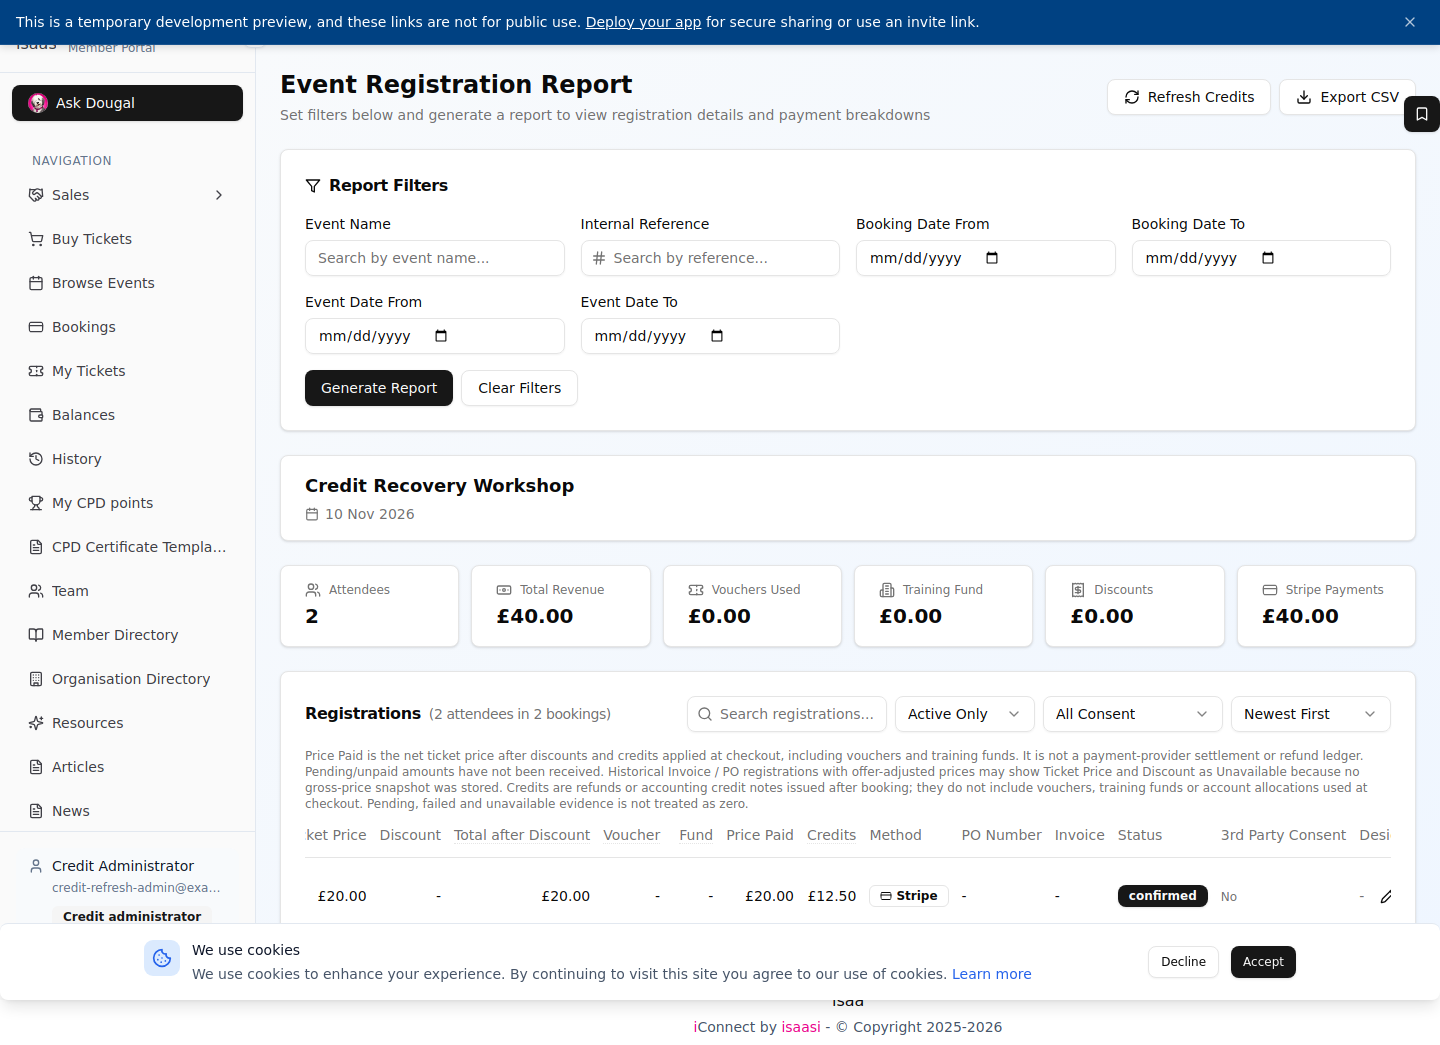
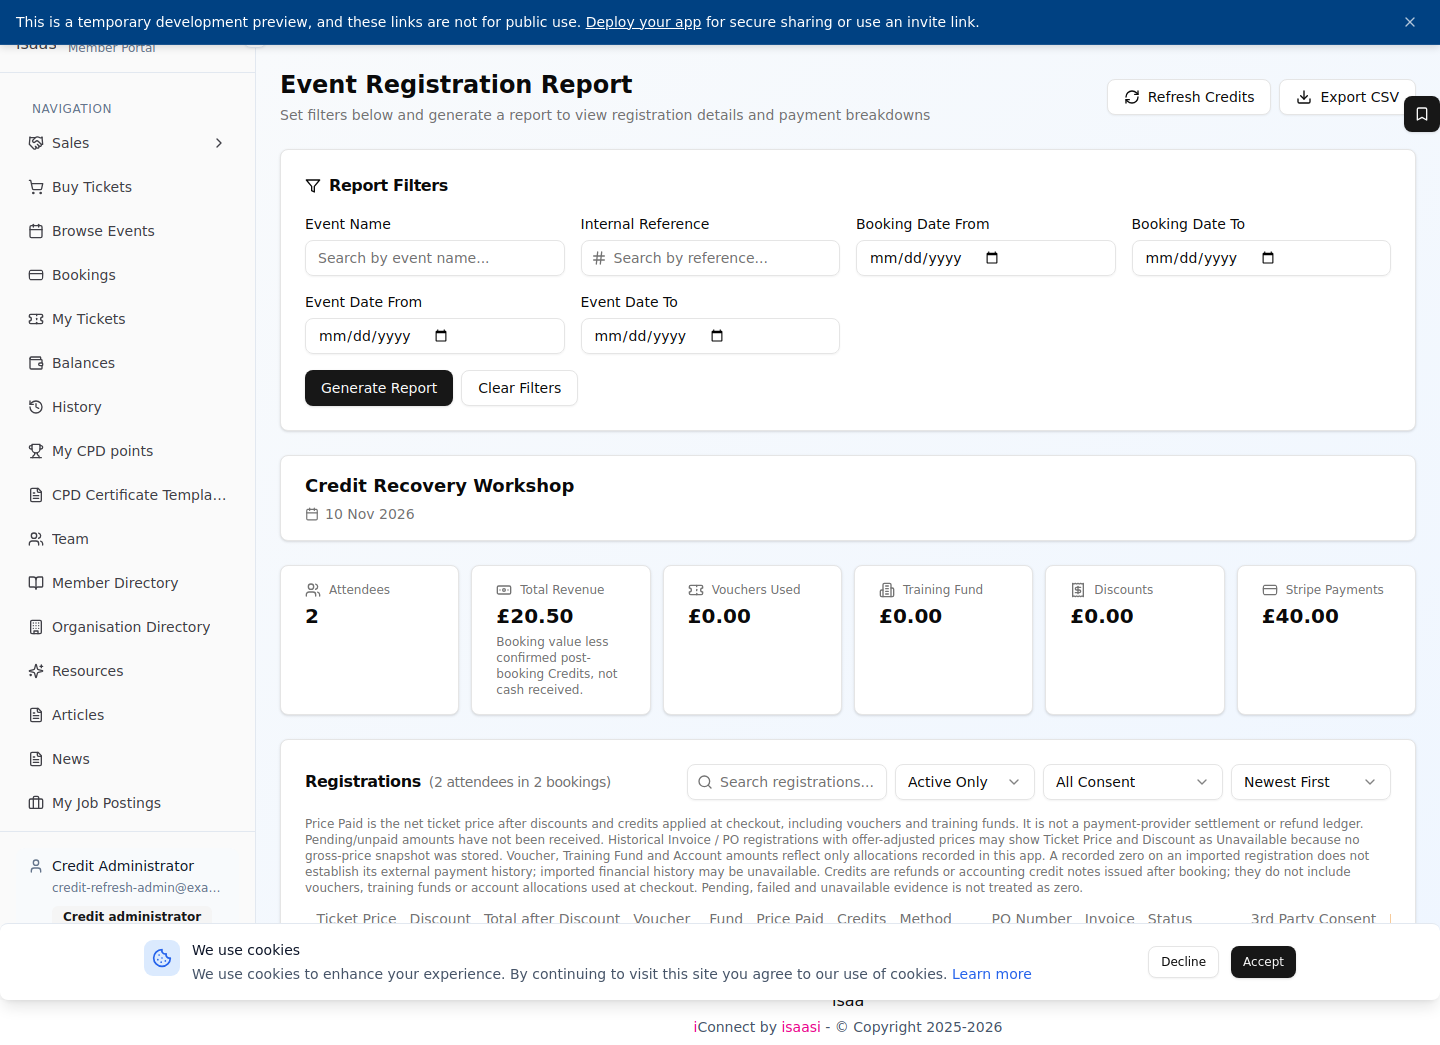
Deduct confirmed group Credits from report revenue and preserve report API regression coverage
Replit-Task-Id: 980bf761-0a46-47a9-93bc-b8fa5bb2f893
Replit-Merge-Attempt: MergeTask:980bf761-0a46-47a9-93bc-b8fa5bb2f893:1:adb9da1e

diff --git a/client/src/pages/EventRegistrationReport.jsx b/client/src/pages/EventRegistrationReport.jsx
@@ -37,6 +37,7 @@ import CpdPointsReplayDialog from "@/components/events/CpdPointsReplayDialog";
 import { CPD_REPLAY_ENDPOINT, cpdRegistrationIdentity, cpdRegistrationKey, readCpdReplayResponse } from "@/lib/cpdPointsReplay";
 import { formatRegistrationPricePaid } from "@/lib/eventRegistrationPricePaid";
 import { financialAmount, financialCurrency, financialExport, paymentMethodLabel } from "@/lib/eventRegistrationFinancial";
+import { summarizeRegistrationRevenue, registrationRevenueExplanation } from "../../../shared/eventRegistrationRevenue.mjs";
 import {
   formatRegistrationCreditBreakdown,
   formatRegistrationCreditExplanation,
@@ -1276,7 +1277,6 @@ export default function EventRegistrationReport() {
   };
 
   const filteredSummary = useMemo(() => {
-    let totalRevenue = 0;
     let totalVoucher = 0;
     let totalTrainingFund = 0;
     let totalDiscount = 0;
@@ -1287,7 +1287,6 @@ export default function EventRegistrationReport() {
     const creditsSummary = summarizeRegistrationCredits(filteredGroups);
     let hasUnavailableTicketTotal = false;
     let hasUnavailableDiscount = false;
-    let hasUnavailableRevenue = false;
     let hasUnavailableVoucher = false;
     let hasUnavailableFund = false;
     let hasUnavailableAfterDiscount = false;
@@ -1300,8 +1299,6 @@ export default function EventRegistrationReport() {
       const gp = group.groupPayment;
       const cost = financialAmount(gp.totalCost);
       const codeDiscount = financialAmount(gp.codeDiscount);
-      if (cost === null || codeDiscount === null) hasUnavailableRevenue = true;
-      else totalRevenue += cost - codeDiscount;
       const voucher = financialAmount(gp.voucherAmount);
       const fund = financialAmount(gp.trainingFundAmount);
       const discount = financialAmount(gp.discount);
@@ -1341,7 +1338,7 @@ export default function EventRegistrationReport() {
     return {
       totalBookings: totalAttendees,
       totalGroups: filteredGroups.length,
-      totalRevenue,
+      ...summarizeRegistrationRevenue(filteredGroups),
       totalVoucher,
       totalTrainingFund,
       totalDiscount,
@@ -1352,7 +1349,6 @@ export default function EventRegistrationReport() {
       creditsSummary,
       hasUnavailableTicketTotal,
       hasUnavailableDiscount,
-      hasUnavailableRevenue,
       hasUnavailableVoucher,
       hasUnavailableFund,
       hasUnavailableAfterDiscount,
@@ -2015,6 +2011,12 @@ export default function EventRegistrationReport() {
                   <span className="text-xs text-muted-foreground">Total Revenue</span>
                 </div>
                 <p className="text-xl font-bold" data-testid="text-total-revenue">{filteredSummary.hasUnavailableRevenue ? 'Unavailable' : formatCurrency(filteredSummary.totalRevenue)}</p>
+                <p className="text-xs text-muted-foreground mt-1">Booking value less confirmed post-booking Credits, not cash received.</p>
+                {filteredSummary.hasUnavailableRevenue && (
+                  <p className="text-xs text-muted-foreground mt-1" data-testid="text-revenue-incomplete">
+                    Incomplete for {filteredSummary.revenueUnavailableGroups} booking group(s): {registrationRevenueExplanation(filteredSummary)}.
+                  </p>
+                )}
               </CardContent>
             </Card>
             {paymentPolicy?.allowVoucherPayment && <Card>

diff --git a/api/reports/event-registration-report.js b/api/reports/event-registration-report.js
@@ -4,6 +4,7 @@ import { isPublicInvoicePo, publicInvoicePurchaser } from './_publicInvoicePo.js
 import { buildEventCheckinFlagMap } from '../_lib/checkinService.js';
 import { normalizeGroupPayment, normalizeGroupPricePaid, normalizeGroupTicketPrices } from './_pricePaid.js';
 import { attachReportCredits } from './_credits.js';
+import { summarizeRegistrationRevenue } from '../../shared/eventRegistrationRevenue.mjs';
 
 // Continue until an empty page, not a short page: a deployment's PostgREST
 // maximum may be smaller than our requested range. A unique tie-breaker keeps
@@ -754,13 +755,11 @@ export default async function handler(req, res) {
         }
       }
 
-      let totalRevenue = 0;
       let totalVoucher = 0;
       let totalTrainingFund = 0;
       let totalDiscount = 0;
       let totalAccountPayments = 0;
       let totalStripePayments = 0;
-      let hasUnavailableRevenue = false;
       let hasUnavailableTicketTotal = false;
       let hasUnavailableDiscount = false;
       let hasUnavailableAfterDiscount = false;
@@ -797,15 +796,14 @@ export default async function handler(req, res) {
           hasUnavailablePricePaid = true;
         }
 
-        // Keep totalCost and the summary-card calculations below on their
-        // historical raw snapshots. The canonical footer values are calculated
-        // independently because complex ticket_price is already code-discounted.
+        // Preserve raw totalCost for existing settlement cards. Revenue uses
+        // canonical booking value after credit attachment below, because
+        // complex ticket_price is already code-discounted.
         const hasUnknownCost = members.some(b => b.total_cost == null || b.total_cost === ''
           || !Number.isFinite(Number(b.total_cost))
           || (b.payment_method === 'admin_import' && Number(b.total_cost) === 0));
         const groupTotalCost = hasUnknownCost ? null
           : members.reduce((sum, b) => sum + (Number(b.total_cost) || 0), 0);
-        if (hasUnknownCost) hasUnavailableRevenue = true;
 
         const groupVoucher = members.reduce((sum, b) => sum + (Number(b.voucher_amount) || 0), 0);
         const groupTrainingFund = members.reduce((sum, b) => sum + (Number(b.training_fund_amount) || 0), 0);
@@ -822,7 +820,6 @@ export default async function handler(req, res) {
         const legacyDiscount = legacyOfferDiscount + legacyCodeDiscount;
         const groupDiscountCode = (members.find(b => b.discount_code_label)?.discount_code_label) || null;
 
-        if (groupTotalCost !== null) totalRevenue += groupTotalCost - legacyCodeDiscount;
         totalVoucher += groupVoucher;
         totalTrainingFund += groupTrainingFund;
         totalDiscount += legacyDiscount;
@@ -1023,13 +1020,12 @@ export default async function handler(req, res) {
       await attachReportCredits({ db: supabase, tenantId, bookings: allBookings, groups: bookingGroups });
 
       summary = {
-        totalRevenue,
+        ...summarizeRegistrationRevenue(bookingGroups),
         totalVoucher,
         totalTrainingFund,
         totalDiscount,
         totalAccountPayments,
         totalStripePayments,
-        hasUnavailableRevenue,
         hasUnavailableTicketTotal,
         hasUnavailableDiscount,
         hasUnavailableAfterDiscount,

diff --git a/.agents/memory/post-booking-credit-authority.md b/.agents/memory/post-booking-credit-authority.md
@@ -8,6 +8,12 @@ Post-booking Credits must use actual provider evidence, never cancellation statu
 
 **How to apply:** Require durable operation linkage before merging legs; leave unresolved attribution/overlap unavailable. Historical reconciliation must only read financial providers and must never replay cancellation to repair reporting evidence.
 
+Event Registration Report revenue means booked value less confirmed post-booking Credits, not cash received. Checkout vouchers, training funds and account allocations are settlement methods, not further revenue deductions.
+
+**Why:** The user explicitly separated revenue from settlement and requested that missing reversal evidence prevent a definitive total.
+
+**How to apply:** Preserve standard versus complex discount semantics, deduct the authoritative group projection once, and keep incompatible currencies or unresolved evidence unavailable. Do not extend this definition to other reports without approval.
+
 Request safety budgets for browser-driven historical reconciliation must pause resumably, not permanently exhaust the saved session.
 
 **Why:** A report can span all events and booking dates, and provider pagination adds requests beyond its booking count. A lifetime request cap can make an otherwise valid report impossible to finish, even through retries.
